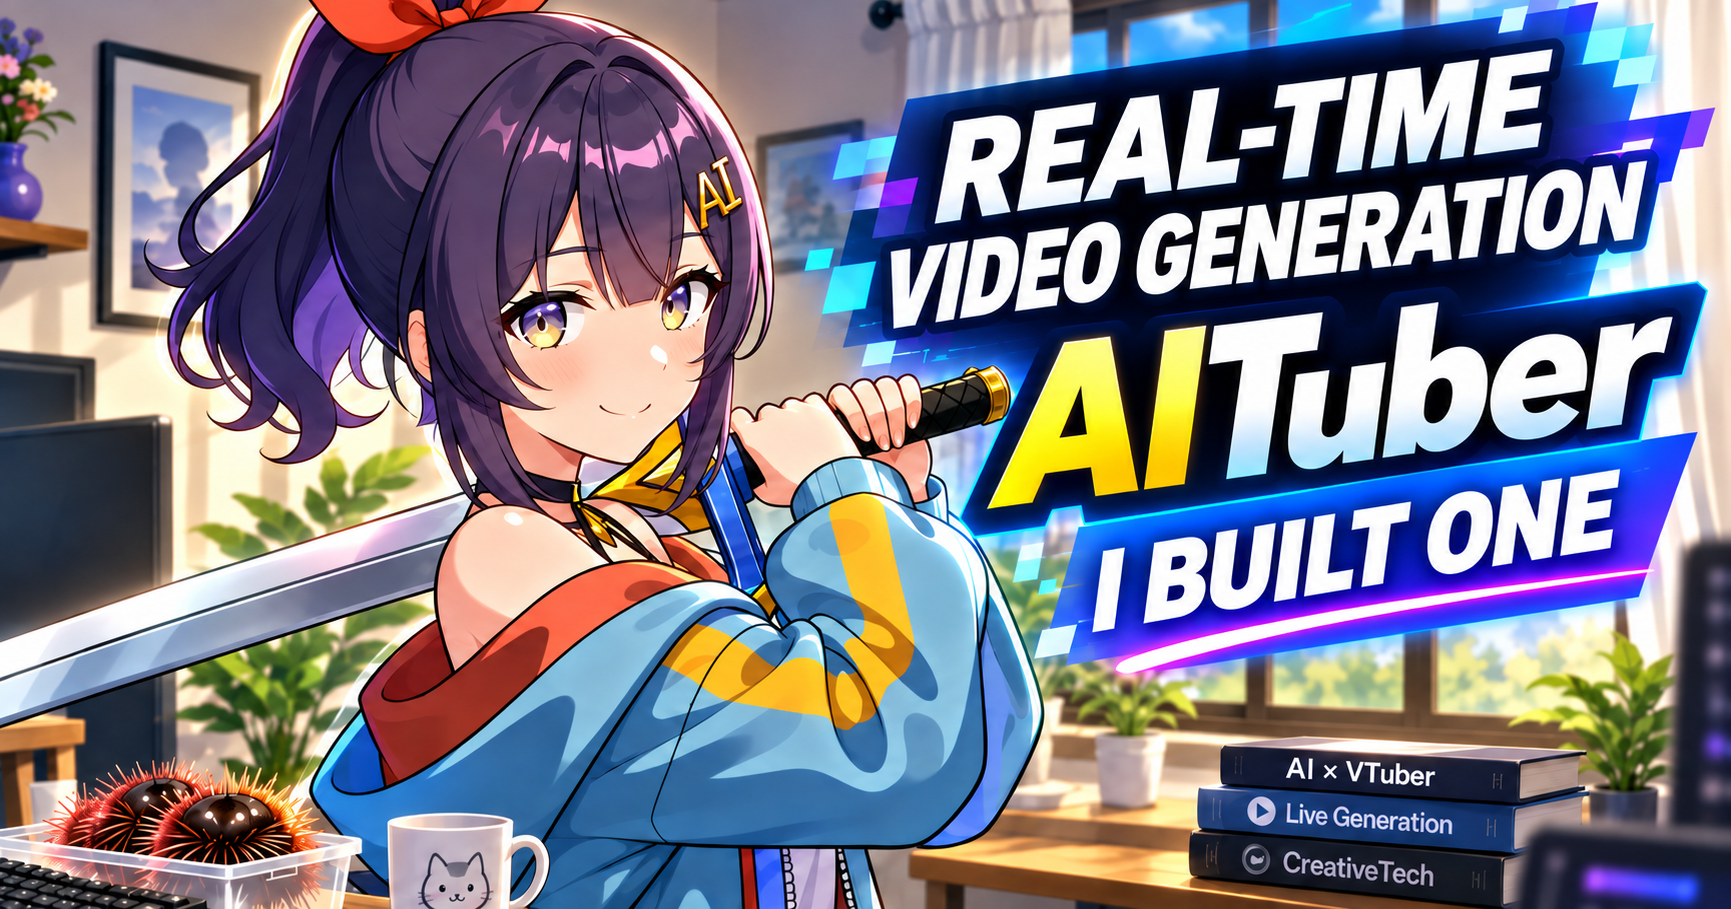
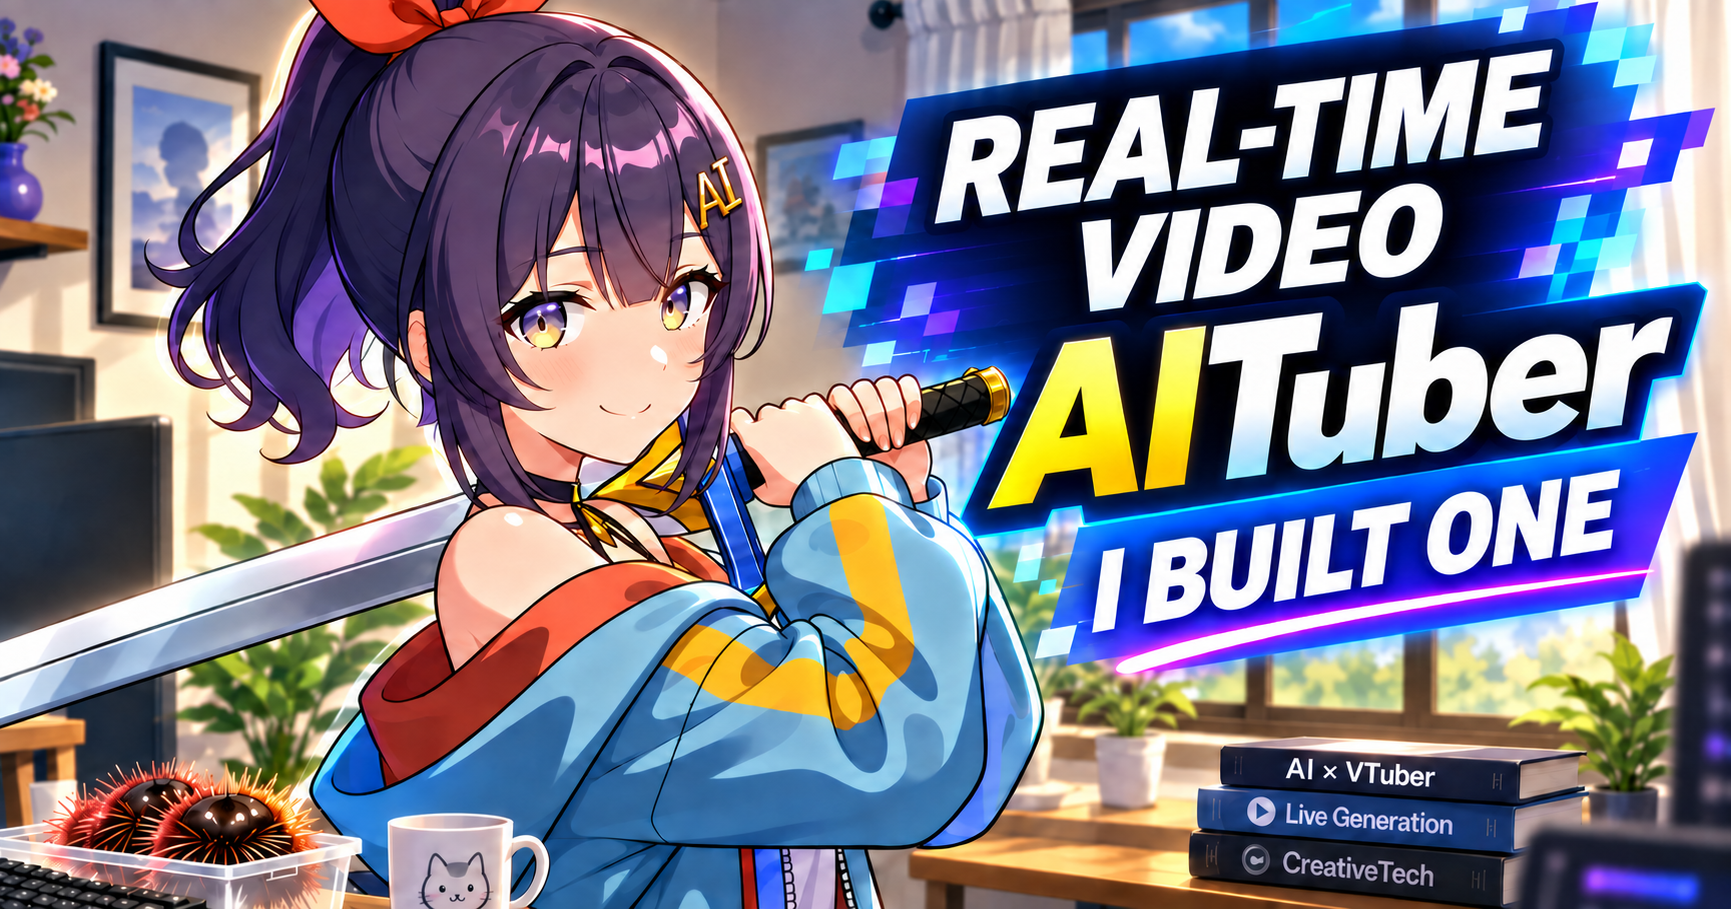
fix: unify English thumbnail wording to real-time video AITuber

diff --git a/public/static/images/posts/realtime-video-aituber/thumbnail-en-prompt.md b/public/static/images/posts/realtime-video-aituber/thumbnail-en-prompt.md
@@ -1,3 +1,3 @@
 Generated with the built-in ImageGen tool.
 
-Use case: text-localization. Edit target: supplied Japanese blog thumbnail. Create English localized version at same wide 1200x630 aspect ratio. Preserve anime character identity, face, hair, outfit, sword, room, props, lighting, layout and neon panel style. Replace Japanese headline on right with exact English text in large bold readable type, fitted comfortably inside frame: "REAL-TIME" / "VIDEO GENERATION" / "AITuber" / "I BUILT ONE". Keep AITuber as dominant line with yellow AI and white Tuber, preserve blue/cyan/purple graphic panels. All headline Japanese must be removed. Preserve small existing English book spine text. No new elements or watermarks.
+Use case: text-localization. Edit target: supplied Japanese blog thumbnail. Create English localized version at same wide 1200x630 aspect ratio. Preserve anime character identity, face, hair, outfit, sword, room, props, lighting, layout and neon panel style. Replace Japanese headline on right with exact English text in large bold readable type, fitted comfortably inside frame: "REAL-TIME" / "VIDEO" / "AITuber" / "I BUILT ONE". Keep AITuber as dominant line with yellow AI and white Tuber, preserve blue/cyan/purple graphic panels. All headline Japanese must be removed. Preserve small existing English book spine text. No new elements or watermarks.
